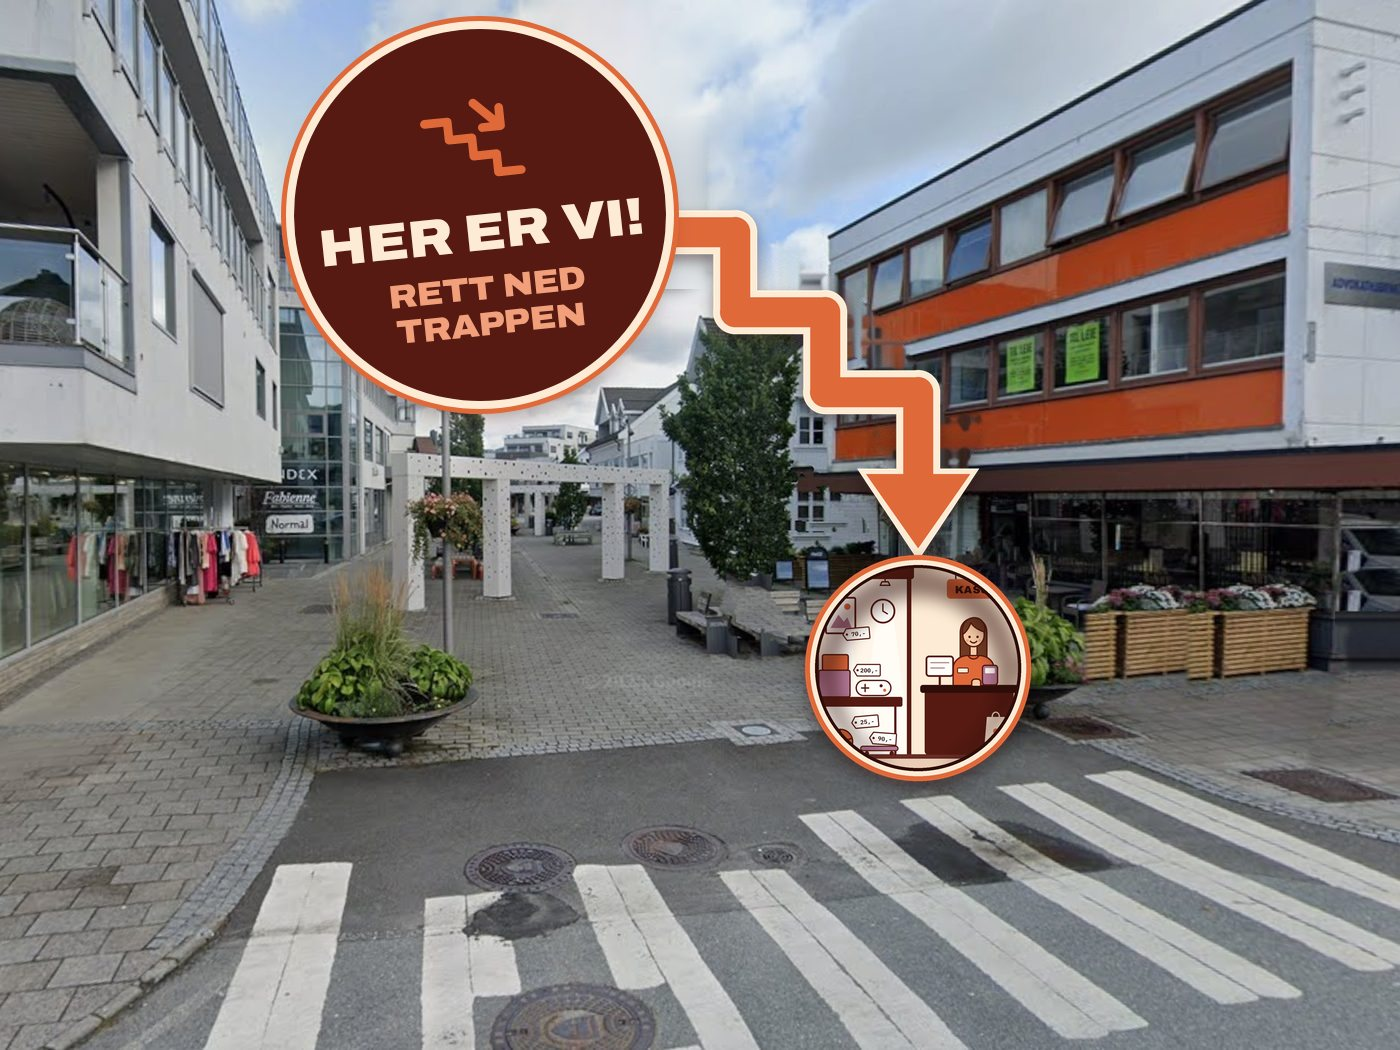
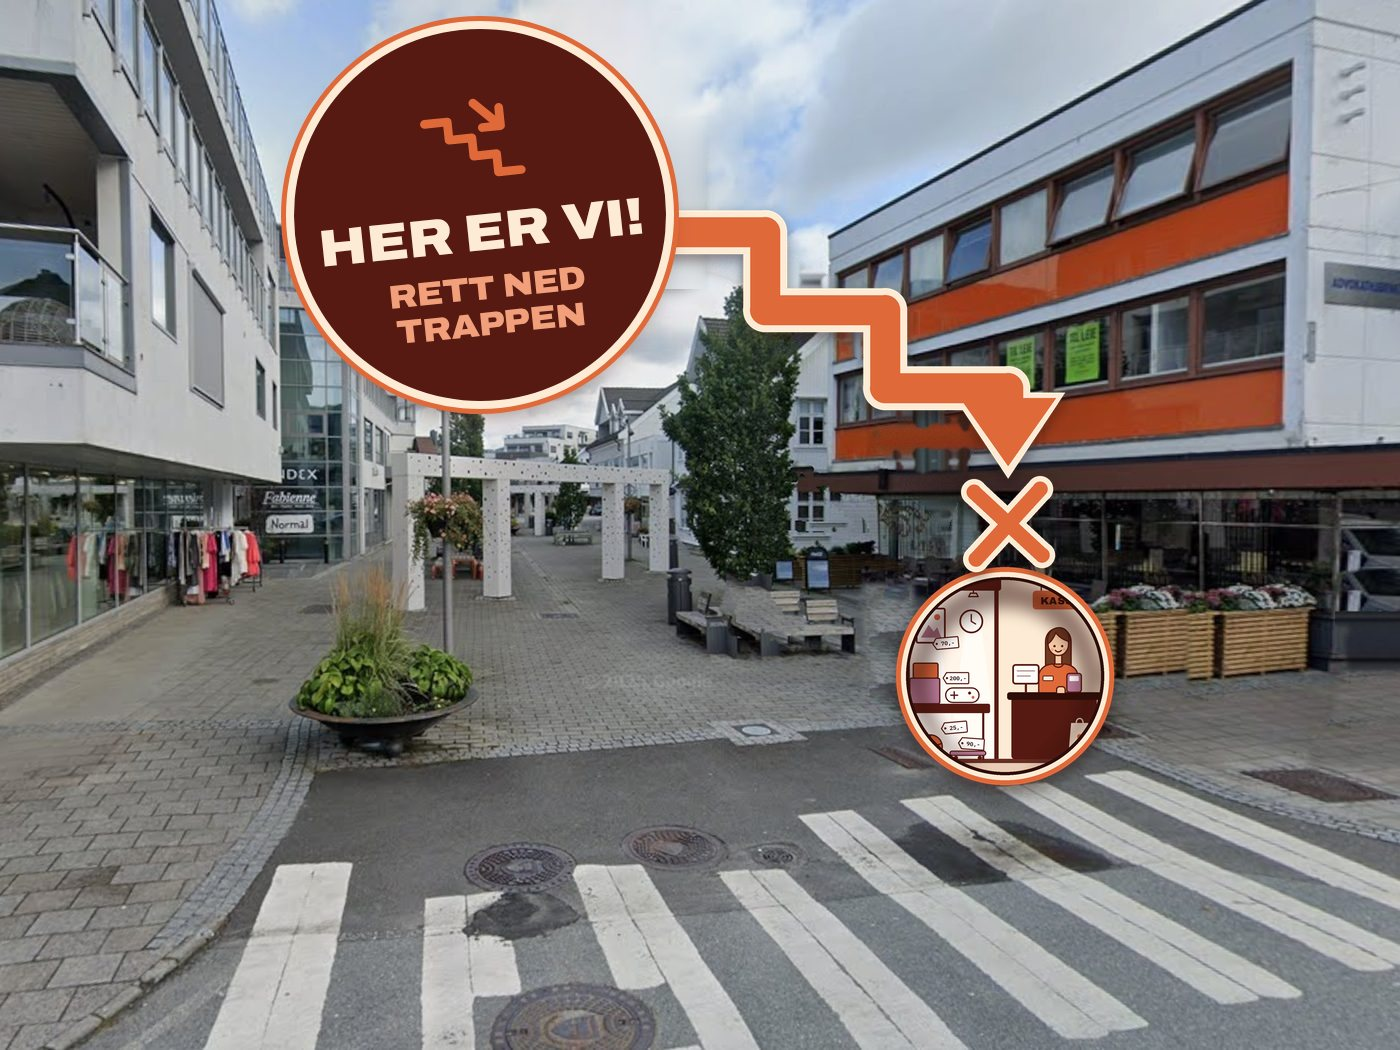
Street picture: arrow ends at the door, X marks the entrance, peek window right below
Claude-Session: https://claude.ai/code/session_01RRhAi942qst8ZUNjrS2TNS

Changed region(s): [[0.4914, 0.1829, 0.7986, 0.7619]]

diff --git a/index.html b/index.html
@@ -2386,7 +2386,7 @@ textarea.input { border-radius: 22px; resize: vertical; min-height: 6.5em; line-
           </div>
         </div>
         <a class="findus-map" href="https://www.google.com/maps/@58.1376298,7.0699848,3a,75y,31.68h,78.56t/data=!3m7!1e1!3m5!1s0FKhDvEe1NblPDpRfmuLrQ!2e0!6shttps:%2F%2Fstreetviewpixels-pa.clients6.google.com%2Fv1%2Fthumbnail%3Fcb_client%3Dmaps_sv.tactile%26w%3D900%26h%3D600%26pitch%3D11.43841887587098%26panoid%3D0FKhDvEe1NblPDpRfmuLrQ%26yaw%3D31.675660257740443!7i16384!8i8192?entry=ttu&amp;g_ep=EgoyMDI2MDkyMy4wIKXMDSoASAFQAw%3D%3D" target="_blank" rel="noopener">
-          <img src="bilder/butikk-her-er-vi.jpg" width="1400" height="1050" loading="lazy" alt="Gatebilde av Kirkeveien 3 i Lyngdal. En stor pil peker mot inngangen med teksten: Her er vi! Rett ned trappen. En trappepil peker ned mot inngangen, og et rundt vindu viser butikken og kassen under bakken.">
+          <img src="bilder/butikk-her-er-vi.jpg" width="1400" height="1050" loading="lazy" alt="Gatebilde av Kirkeveien 3 i Lyngdal. En stor pil peker mot inngangen med teksten: Her er vi! Rett ned trappen. En trappepil peker ned mot inngangen, som er merket med et kryss. Et rundt vindu under viser butikken og kassen under bakken.">
           <span class="findus-map-cta" aria-hidden="true">Se gatebildet ↗</span>
         </a>
       </div>
